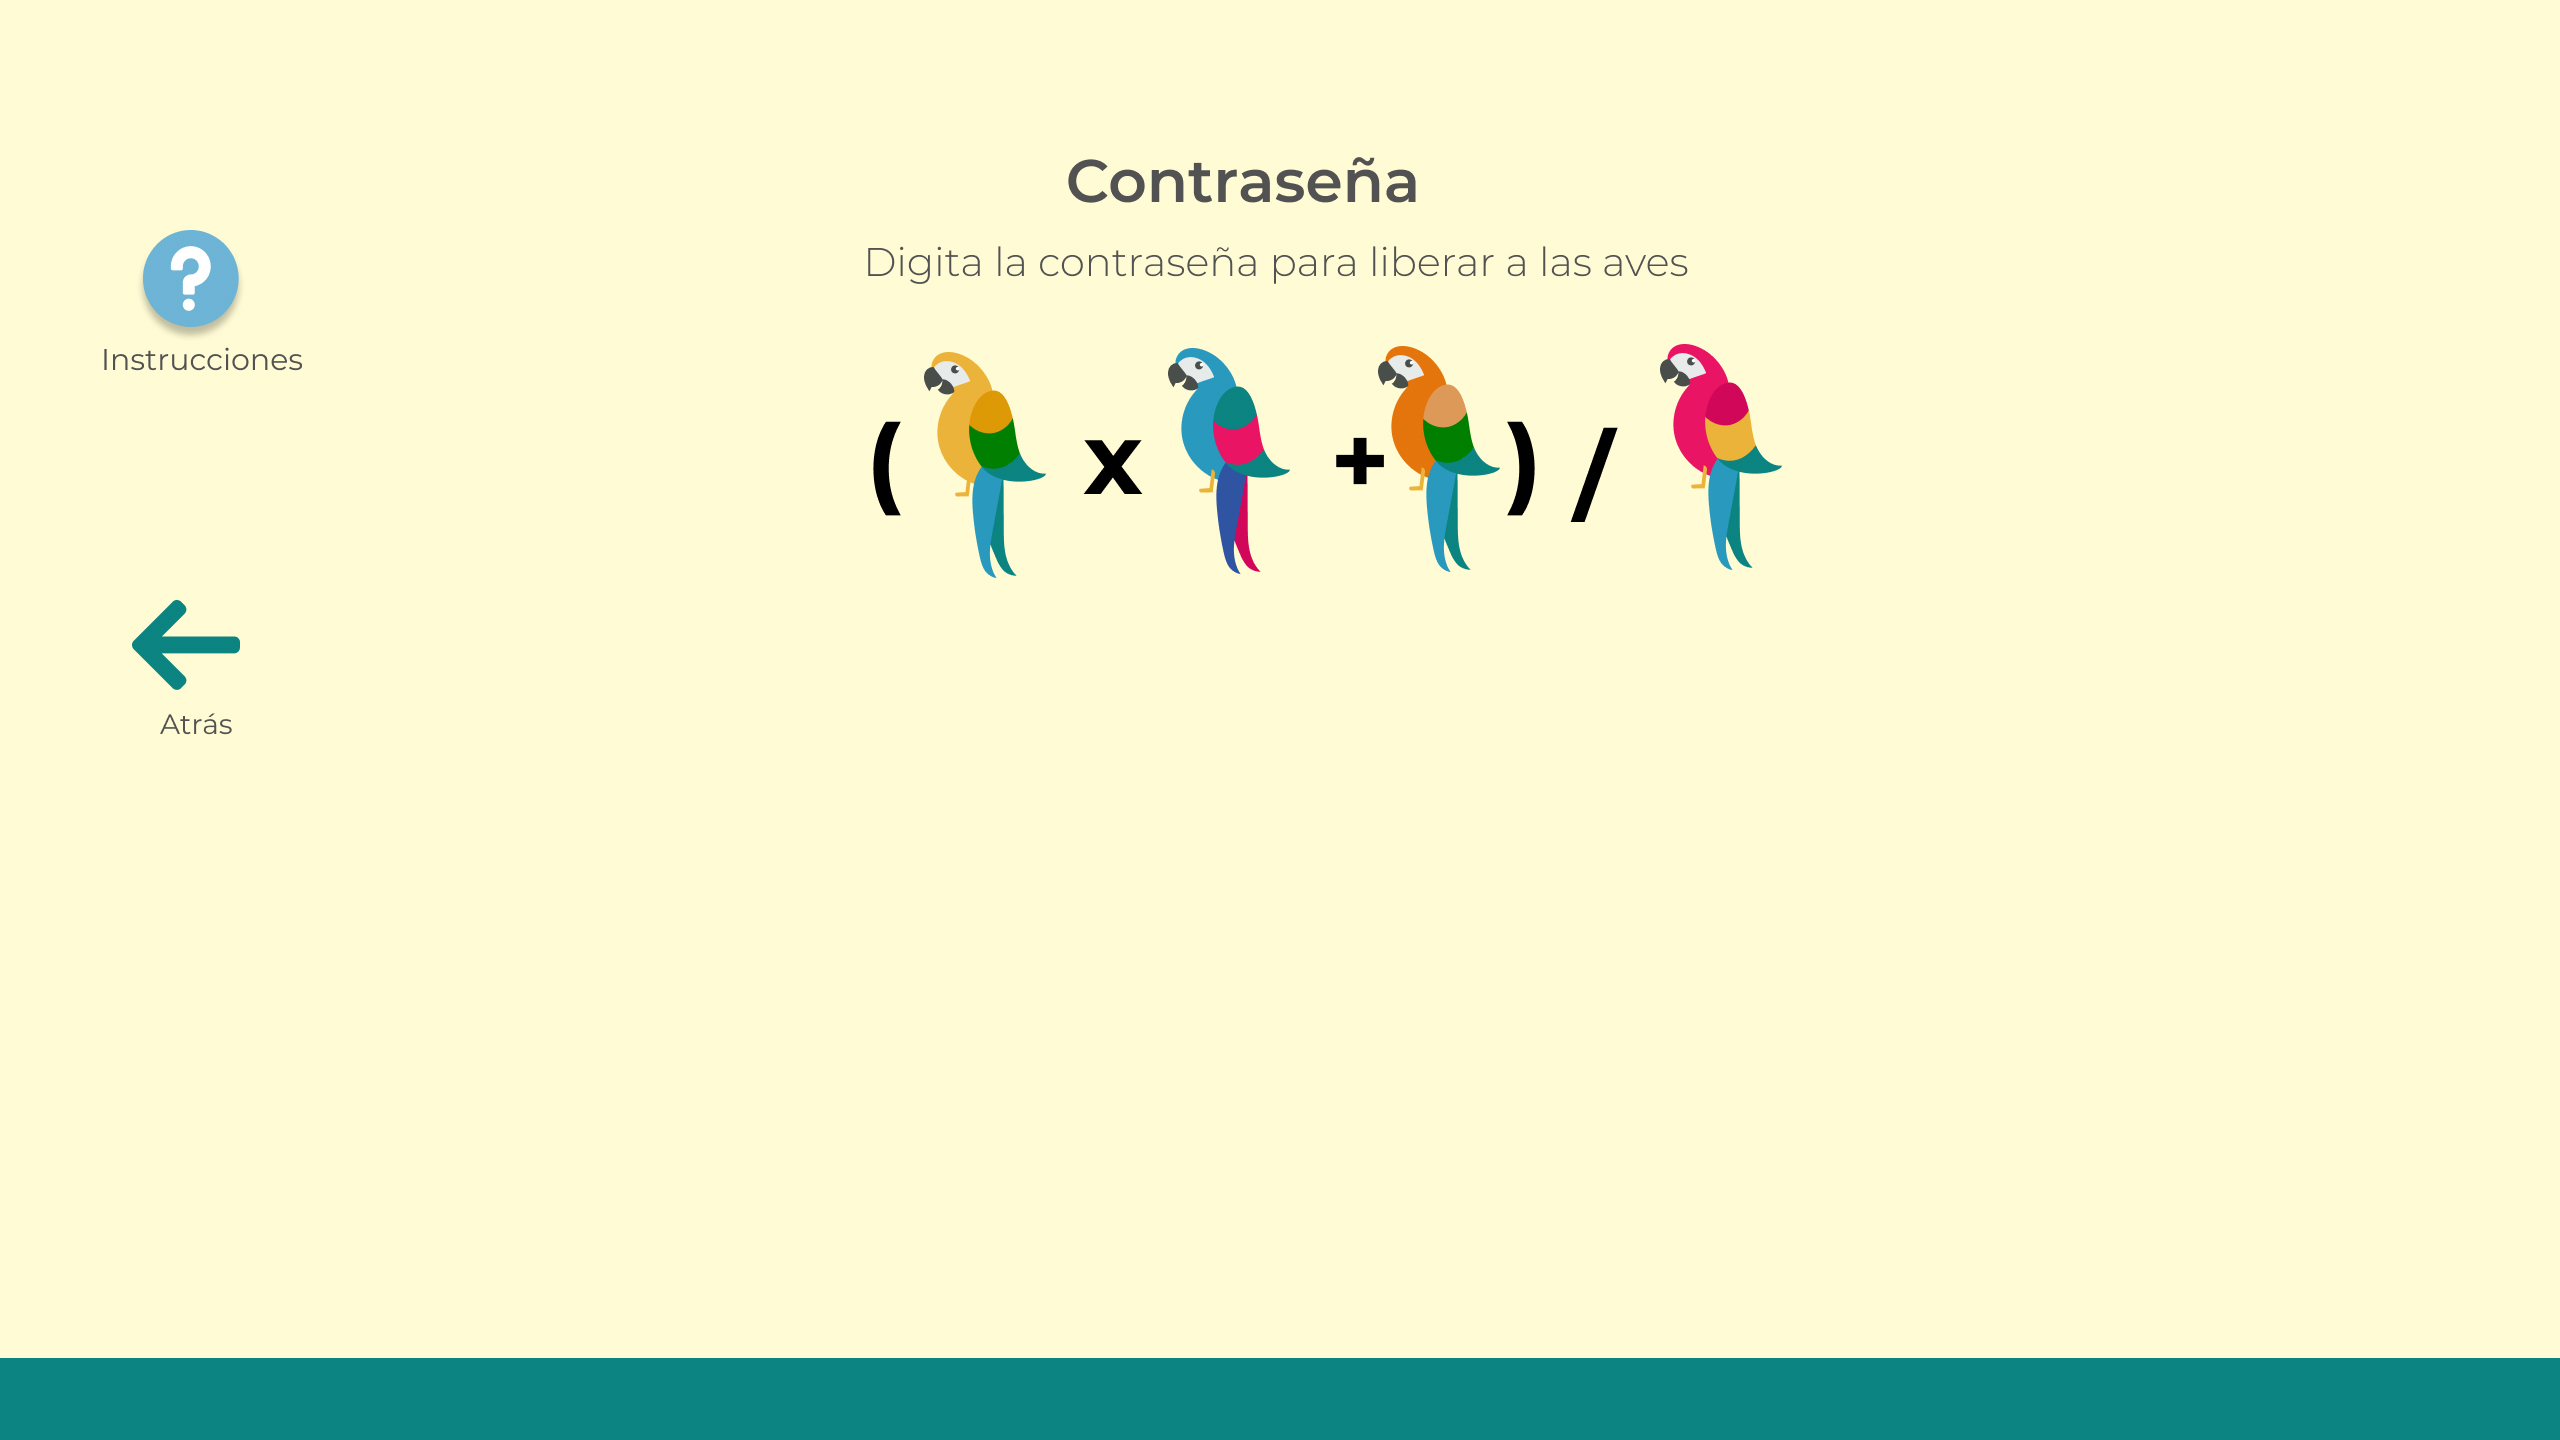
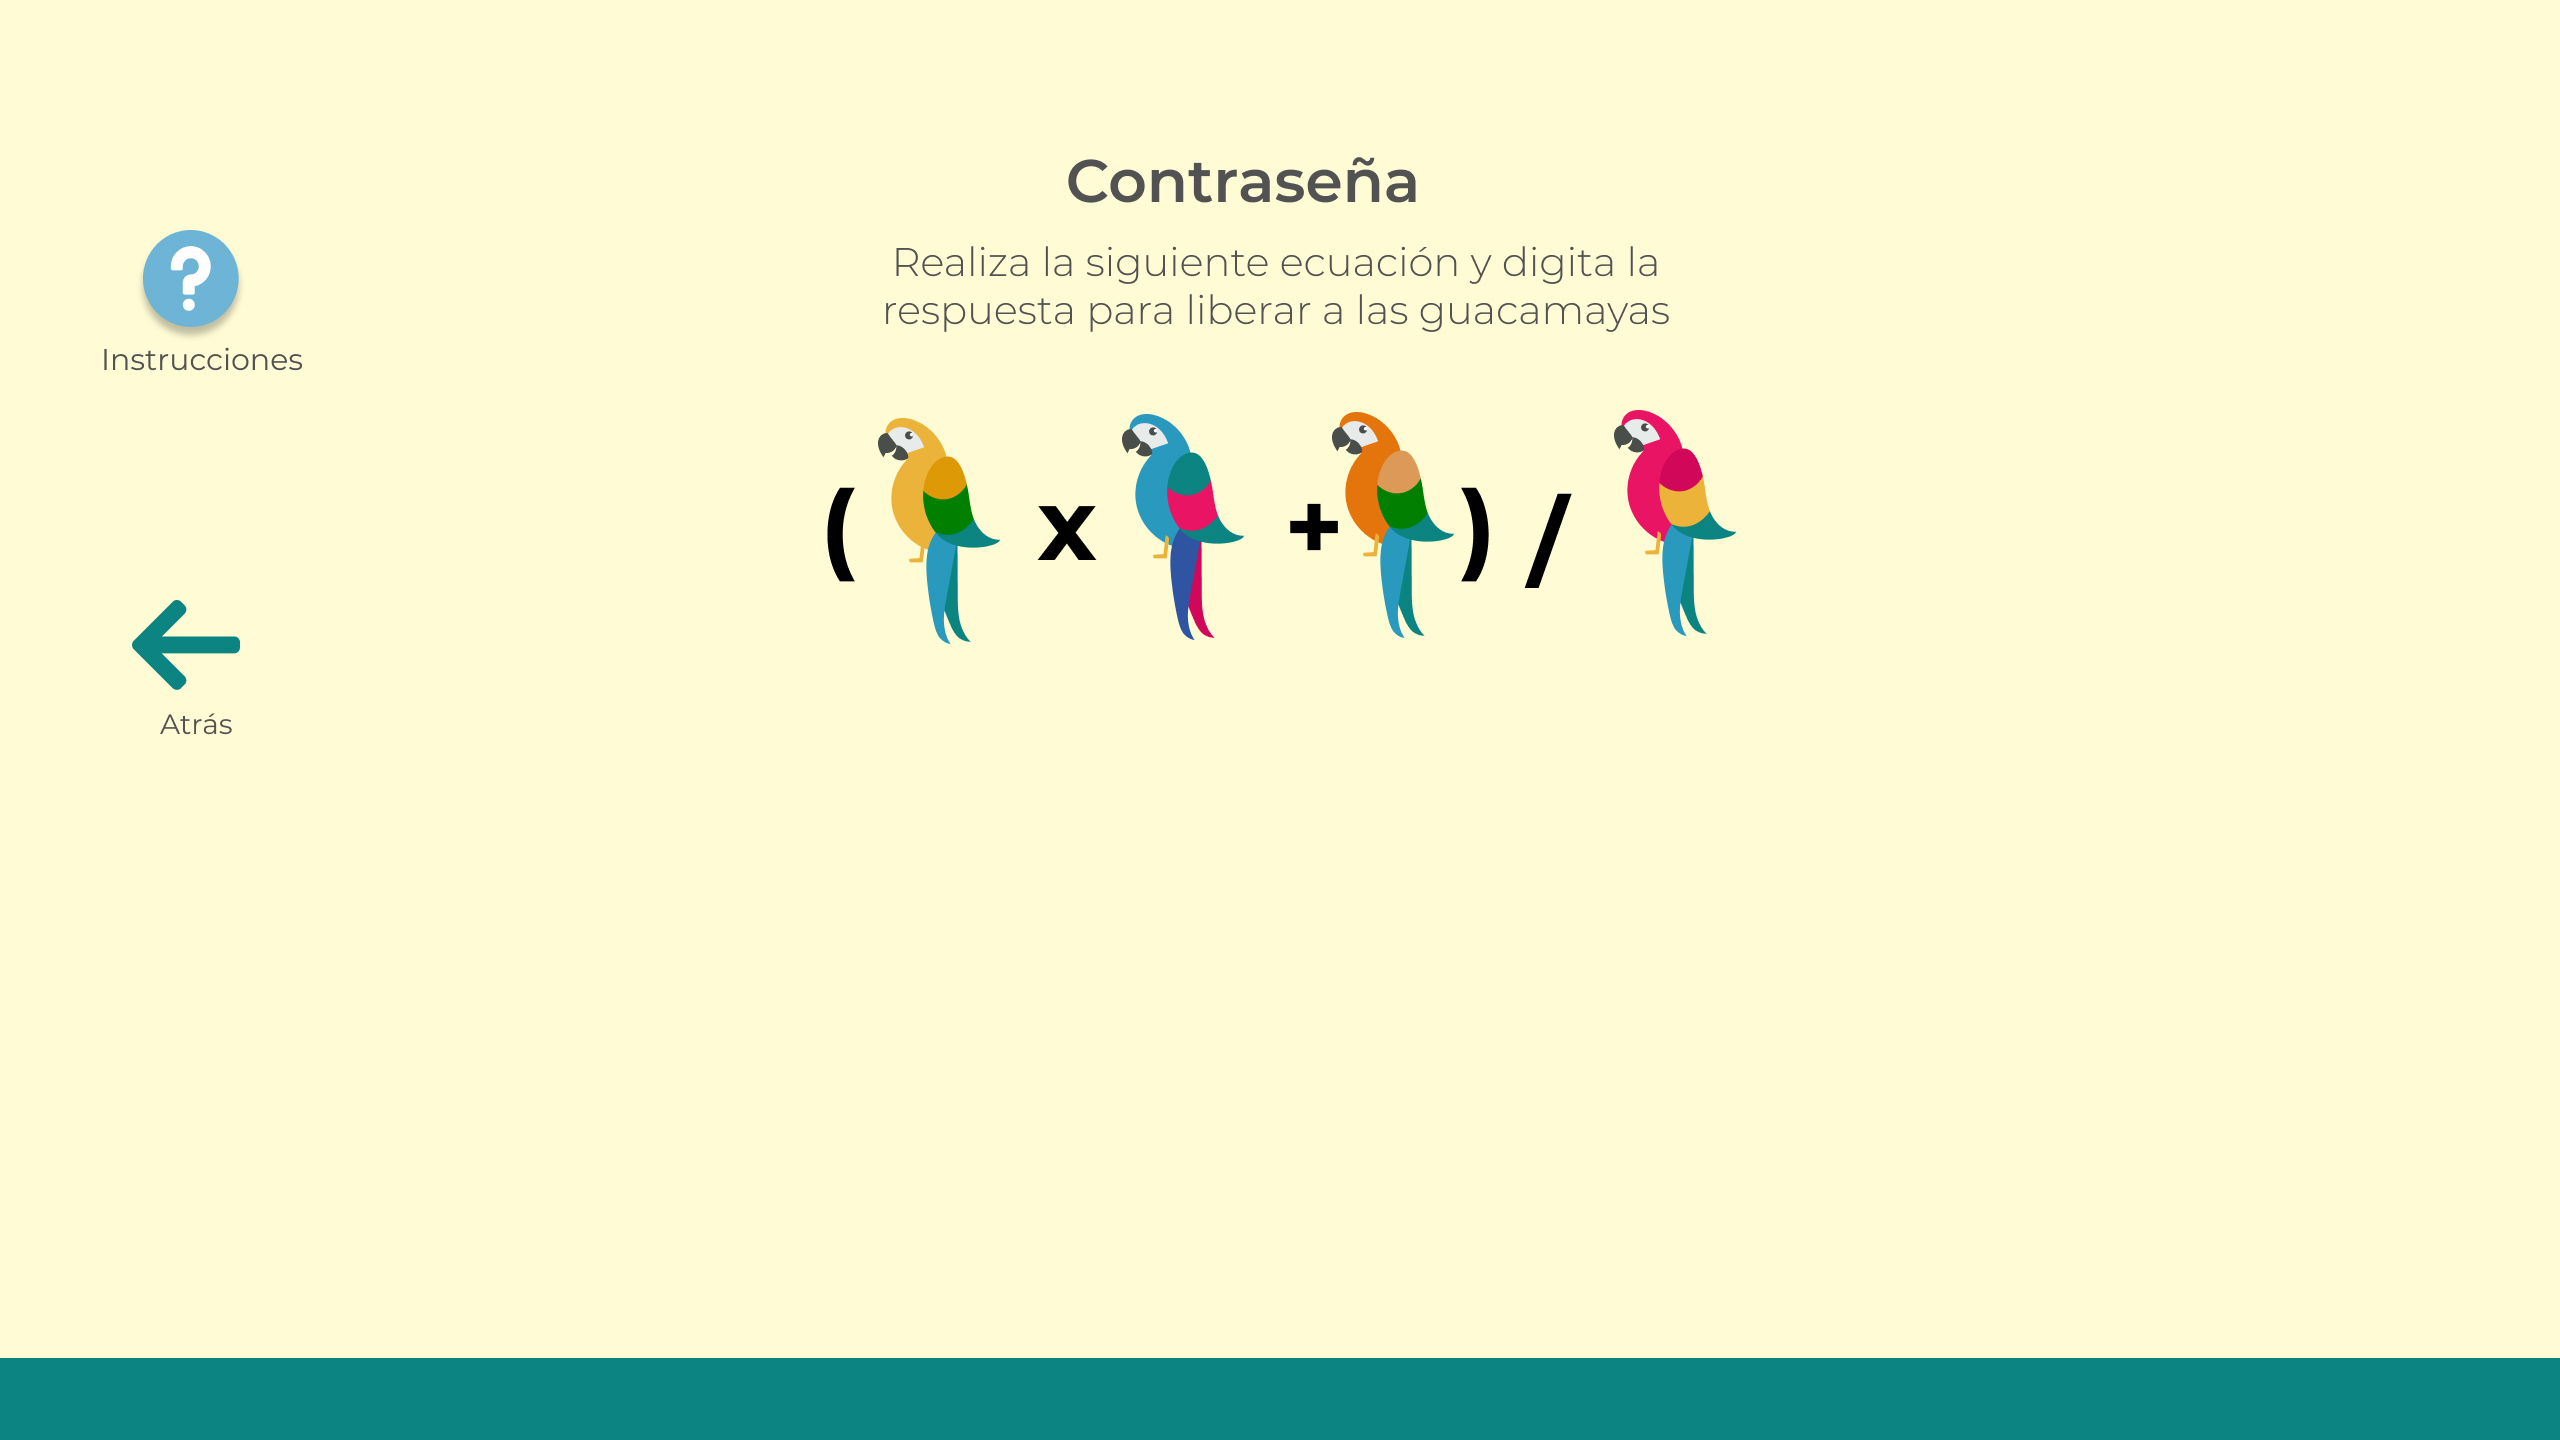
Replaced password screen and jail screen

Changed region(s): [[0.3125, 0.1562, 0.6875, 0.4375]]

diff --git a/scripts/sketch.js b/scripts/sketch.js
@@ -71,6 +71,9 @@ let currentScreen;
 // Timer
 let timer;
 
+// Correct answer
+let correctAnswer;
+
 function preload() {
   // Slots
   slotWeight = loadImage("./src/img/slot-weight.png");
@@ -104,13 +107,13 @@ function preload() {
   wrongpassword = loadImage("./src/img/wrongpassword.jpg");
   badending = loadImage("./src/img/badending.jpg");
   goodending = loadImage("./src/img/goodending.jpg");
-  passwordScreen = loadImage("./src/img/altpasswordScreen.jpg");
+  passwordScreen = loadImage("./src/img/passwordScreen.jpg");
 }
 
 function setup() {
 
   finalScore = 0;
-
+  correctAnswer = 8;
   currentScreen = 1;
   width = 1280;
   height = 720;
@@ -505,7 +508,7 @@ function draw() {
 
       // Calcular puntaje
       verificarBtn.mousePressed(function () {
-        if (inputs[6].value == 3) {
+        if (inputs[6].value == correctAnswer) {
 
           if (inputs[1].value == 2) {
             finalScore += 20;
